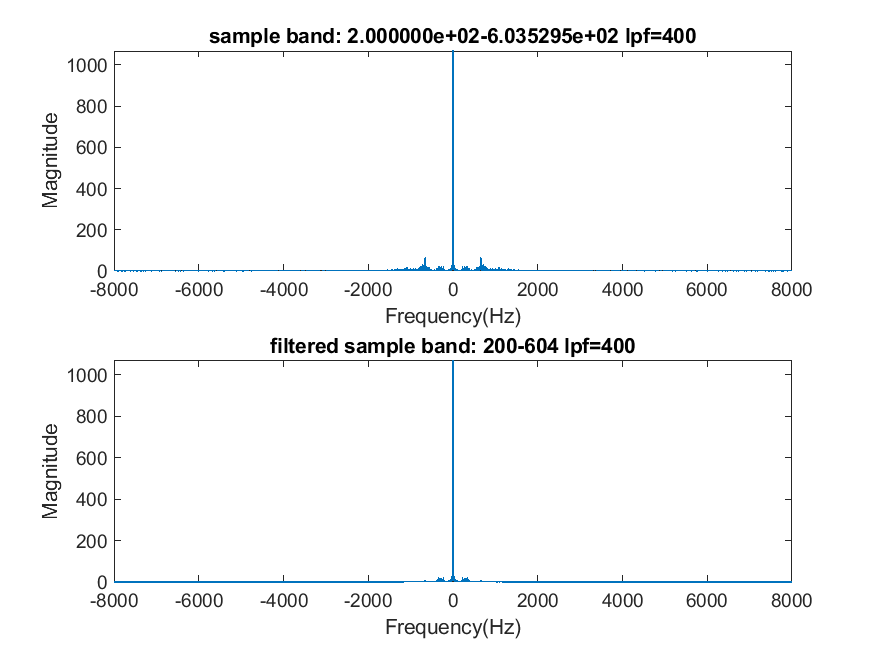
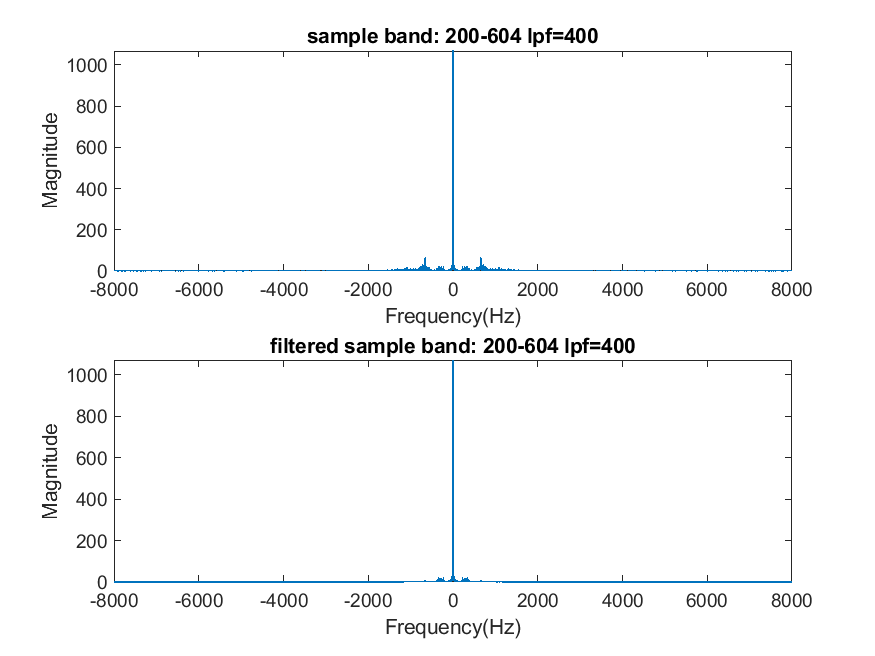
update

Changed region(s): [[0.2469, 0.0305, 0.8023, 0.0915]]

diff --git a/Project1/Task2/tone_vocoder.m b/Project1/Task2/tone_vocoder.m
@@ -14,14 +14,7 @@ function yn = tone_vocoder(N, Freq_low, Freq_high, Freq_sample, Freq_filter, sam
         sample_band = filter(b1, a1, sample);
         sample_band = abs(sample_band);
 
-        figure1 = figure;
-        sample_band_fft = fftshift(fft(sample_band));
-        sample_band_fft_abs = abs(sample_band_fft);
-        subplot(2, 1, 1);
-        xn = linspace(-Freq_sample/2, Freq_sample/2, length(sample))
-        plot(xn, sample_band_fft_abs);
-        title(sprintf('sample band: %d-%d lpf=%d', band(1), band(2), Freq_filter))
-        xlabel('Frequency(Hz)');ylabel('Magnitude');
+        
         
         % freqz(b1, a1)
         % Do full-wave rectification
@@ -30,6 +23,26 @@ function yn = tone_vocoder(N, Freq_low, Freq_high, Freq_sample, Freq_filter, sam
         
         filtered_sample_band = filter(b2, a2, sample_band);
 
+        envelope_plot = figure;
+        subplot(2,1,1);
+        plot(sample_band);
+        title(sprintf('sample band: %d-%d lpf=%d', round(band(1)), round(band(2)), Freq_filter));
+        xlabel('time');ylabel('Magnitude');
+        subplot(2,1,2);
+        plot(filtered_sample_band);
+        title(sprintf('sample envelop: %d-%d lpf=%d', round(band(1)), round(band(2)), Freq_filter))
+        xlabel('time');ylabel('Magnitude');
+        saveas(envelope_plot, sprintf('plots/sample_envelop_%d-%d_lpf=%d.png', round(band(1)), round(band(2)), Freq_filter))
+
+
+        figure1 = figure;
+        sample_band_fft = fftshift(fft(sample_band));
+        sample_band_fft_abs = abs(sample_band_fft);
+        subplot(2, 1, 1);
+        xn = linspace(-Freq_sample/2, Freq_sample/2, length(sample))
+        plot(xn, sample_band_fft_abs);
+        title(sprintf('sample band: %d-%d lpf=%d', round(band(1)), round(band(2)), Freq_filter))
+        xlabel('Frequency(Hz)');ylabel('Magnitude');
         filtered_sample_band_fft = fftshift(fft(filtered_sample_band));
         filtered_sample_band_fft_abs = abs(filtered_sample_band_fft);
         subplot(2, 1, 2);

diff --git a/Project1/Task2/proj1_task2.m b/Project1/Task2/proj1_task2.m
@@ -12,7 +12,8 @@ sample = sample.';
 figure;
 sample_fft = fftshift(fft(sample));
 sample_fft_abs = abs(sample_fft);
-plot(sample_fft_abs)
+xn = linspace(-Freq_sample/2, Freq_sample/2, length(sample))
+plot(xn, sample_fft_abs)
 title('sample in frequency domain');
 xlabel('Frequency(Hz)');ylabel('Magnitude');
 saveas(gcf, 'plots/sample.png');
